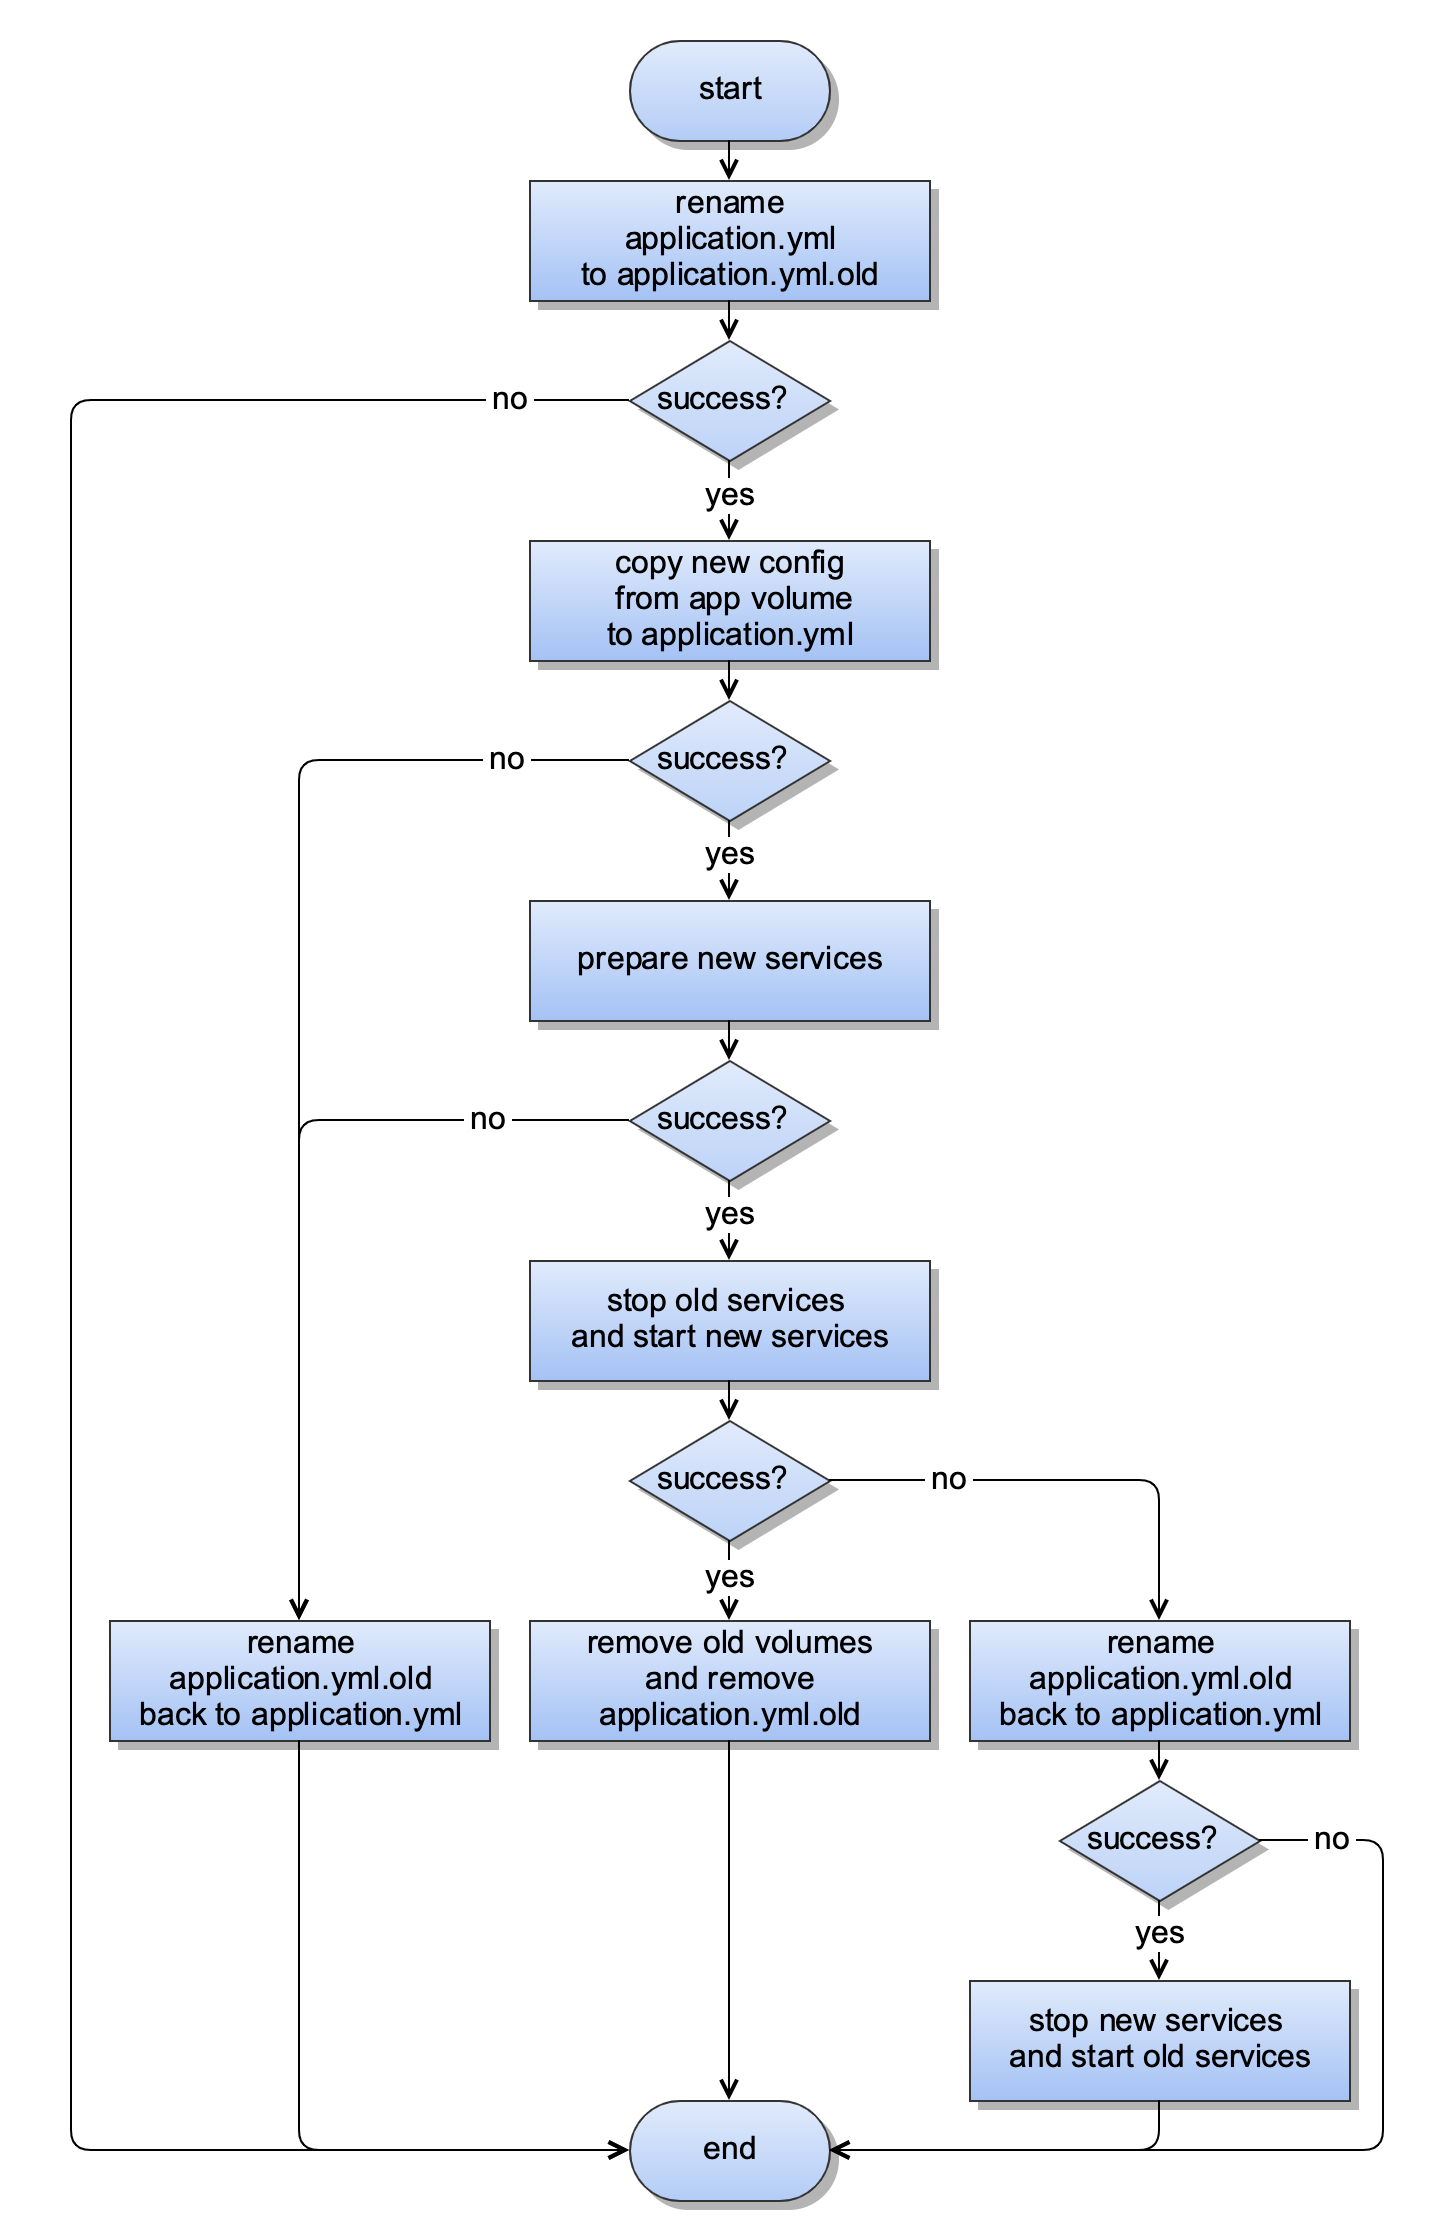
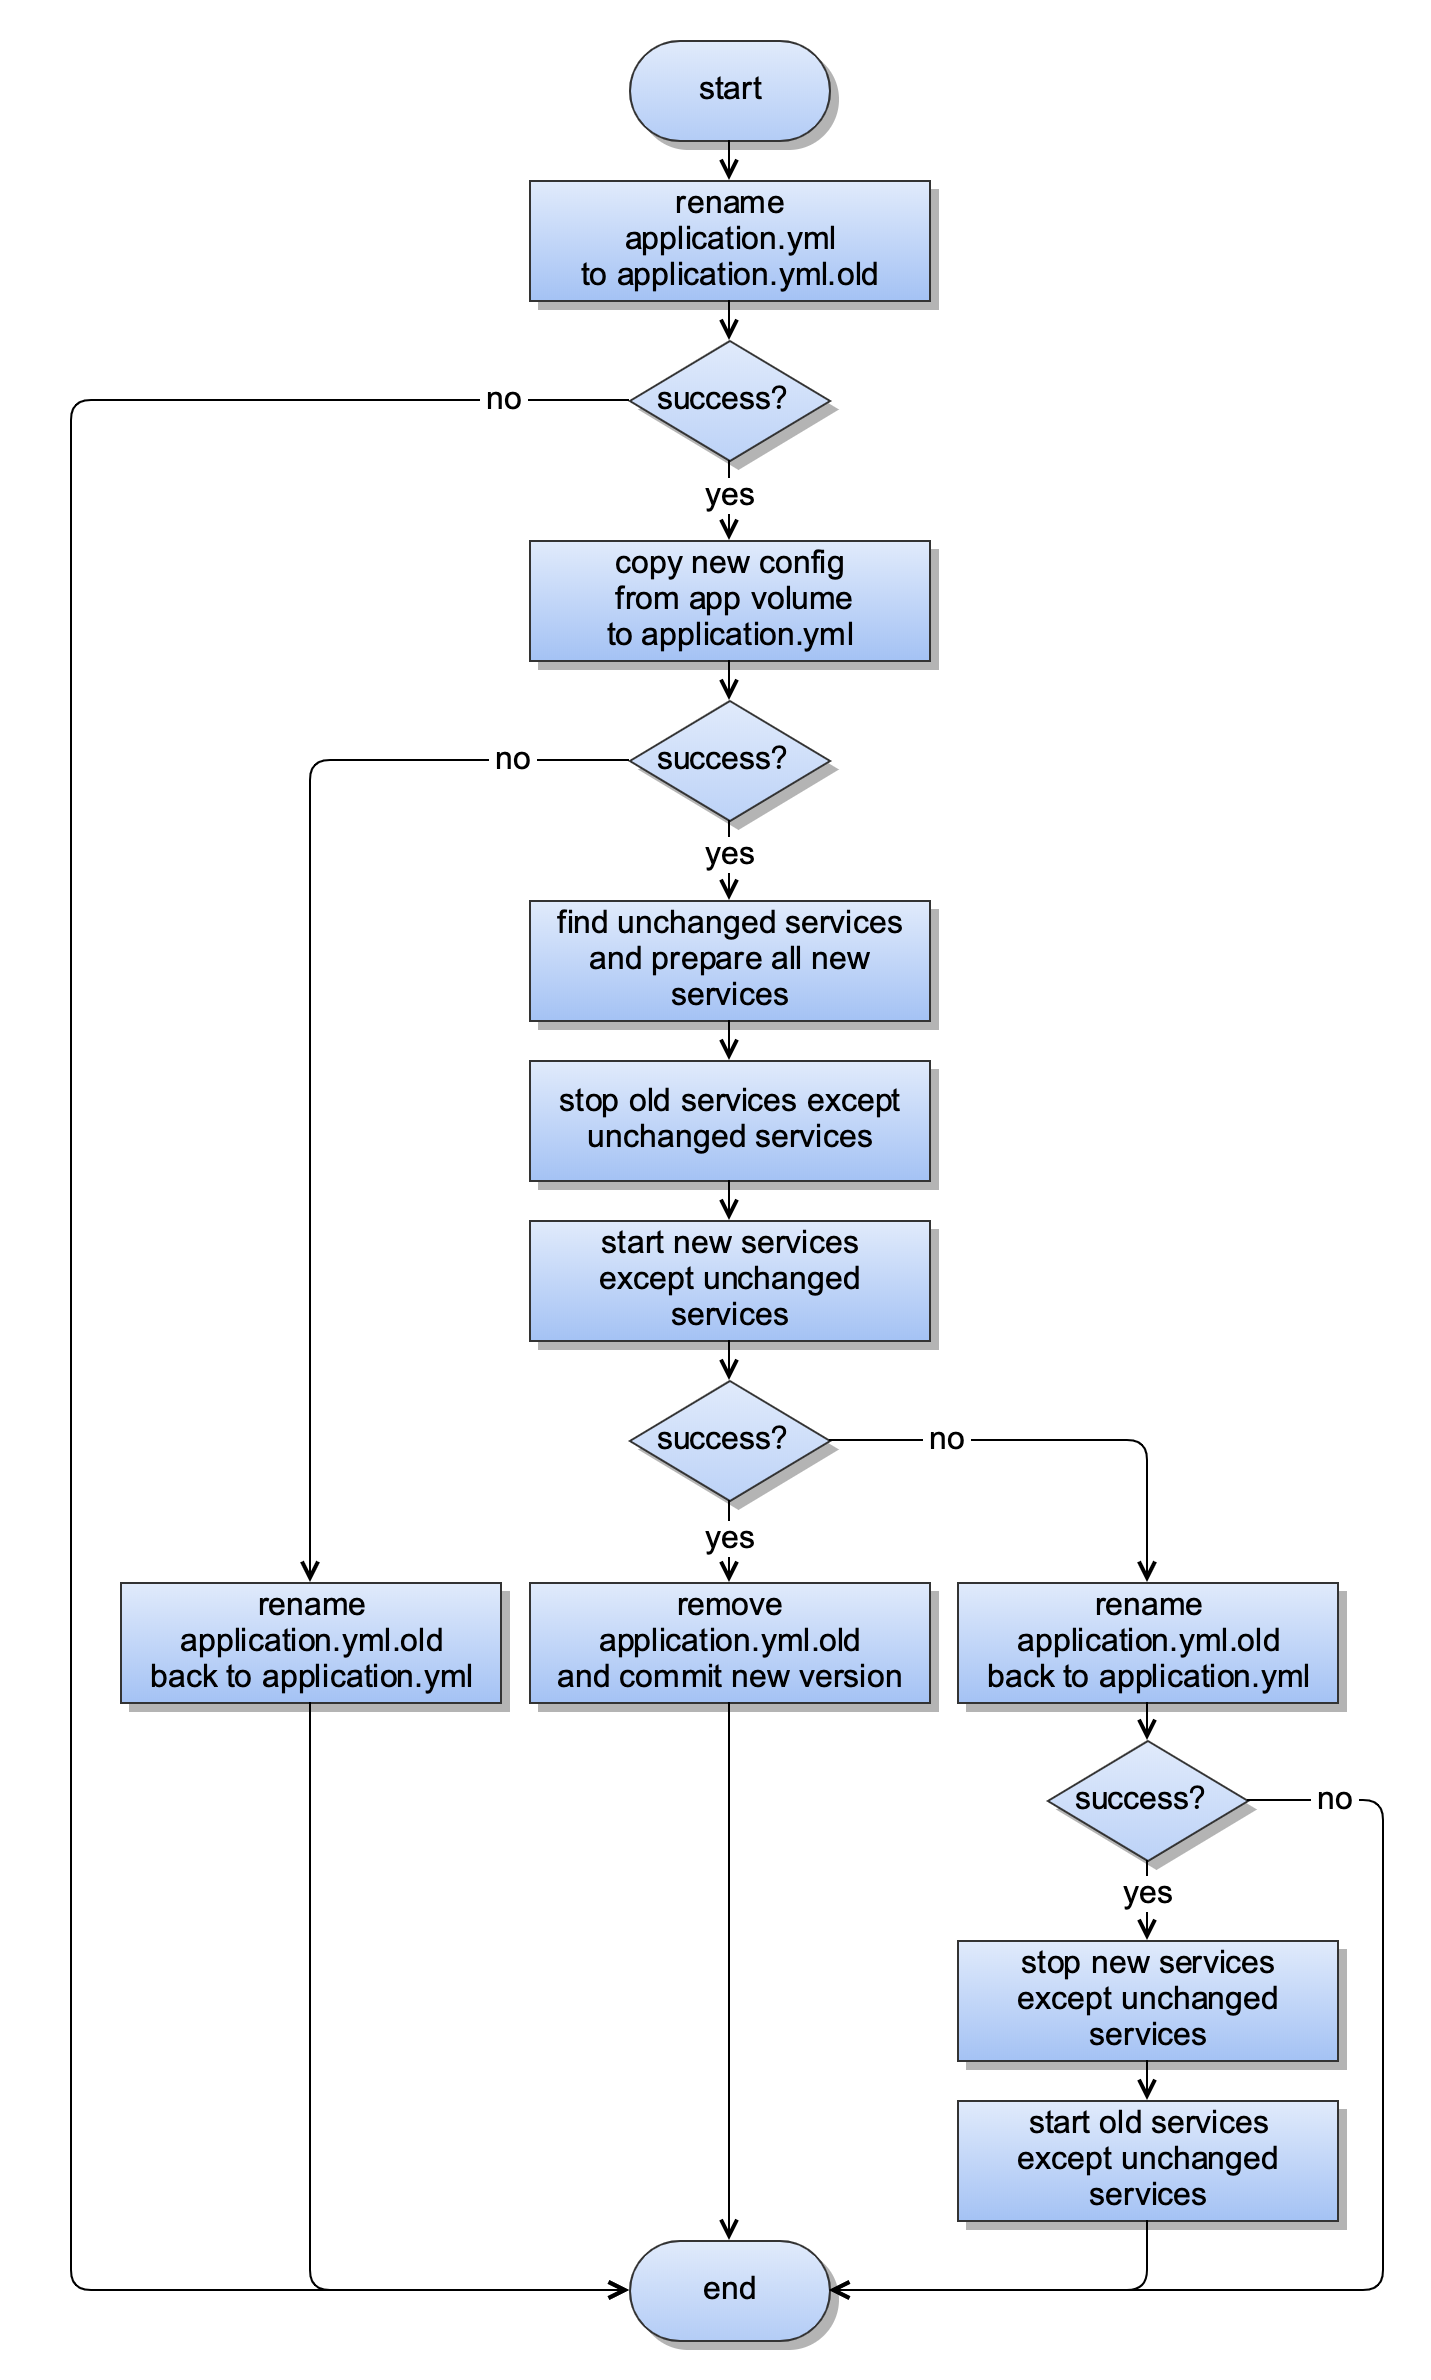
update doc

diff --git a/README.md b/README.md
@@ -27,6 +27,7 @@ As an edge computing platform, **OpenEdge** not only provides features such as u
 - The official module [openedge-function-manager](./doc/us-en/overview/OpenEdge-design.md#openedge-function-manager) provides computing power based on MQTT message mechanism, flexible, high availability, good scalability, and fast response;
 - The official module [openedge-function-python27](./doc/us-en/overview/OpenEdge-design.md#openedge-function-python27) provides the Python2.7 function runtime, which can be dynamically started by `openedge-function-manager`;
 - The official module [openedge-function-python36](./doc/us-en/overview/OpenEdge-design.md#openedge-function-python36) provides the Python3.6 function runtime, which can be dynamically started by `openedge-function-manager`;
+- The official module [openedge-function-node85](./doc/us-en/overview/OpenEdge-design.md#openedge-function-node85) provides the Node 8.5 function runtime, which can be dynamically started by `openedge-function-manager`;
 - SDK (Golang) can be used to develop custom modules.
 
 ### Architecture
@@ -48,6 +49,7 @@ As an edge computing platform, **OpenEdge** not only provides features such as u
 - [OpenEdge config interpretation](./doc/us-en/tutorials/Config-interpretation.md)
 - [How to write a python script for python runtime](./doc/us-en/customize/How-to-write-a-python-script-for-python-runtime.md)
 - [How to import third-party libraries for Python runtime](./doc/us-en/customize/How-to-import-third-party-libraries-for-python-runtime.md)
+- [How to import third-party libraries for Node runtime](./doc/us-en/customize/How-to-import-third-party-libraries-for-node-runtime.md)
 - [How to develop a customize runtime for function](./doc/us-en/customize/How-to-develop-a-customize-runtime-for-function.md)
 - [How to develop a customize module for OpenEdge](./doc/us-en/customize/How-to-develop-a-customize-module-for-OpenEdge.md)
 

diff --git a/CHANGELOG.md b/CHANGELOG.md
@@ -1,3 +1,21 @@
+# Pre-release 0.1.4(2019-07-05)
+
+## New features
+
+- [#251](https://github.com/baidu/openedge/issues/251) add node85 function runtime
+- [#260](https://github.com/baidu/openedge/issues/260) collect network ip address and MAC information
+- [#263](https://github.com/baidu/openedge/issues/263) optimize app reload logic in master, keep service running of its config not changed
+- [#264](https://github.com/baidu/openedge/issues/264) optimize volume clean logic and move it from master to agent module, will remove all volumes not in app's volumes list
+- [#266](https://github.com/baidu/openedge/issues/266) stats the cpu and memory of the service instances
+
+## Bugfixes
+
+- [#246](https://github.com/baidu/openedge/issues/246) change the interval of stats report of agent module from 1m to 20s
+
+## Others
+
+- [#269](https://github.com/baidu/openedge/issues/269) [#273](https://github.com/baidu/openedge/issues/273) [#280](https://github.com/baidu/openedge/issues/280) update makefile, support selected deploy
+
 # Pre-release 0.1.3(2019-05-10)
 
 ## New features

diff --git a/CHANGELOG-CN.md b/CHANGELOG-CN.md
@@ -1,3 +1,21 @@
+# Pre-release 0.1.4(2019-07-05)
+
+## 功能
+
+- [#251](https://github.com/baidu/openedge/issues/251) 增加 Nodejs85 函数计算运行时
+- [#260](https://github.com/baidu/openedge/issues/260) 主程序收集 IP 和 MAC 信息
+- [#263](https://github.com/baidu/openedge/issues/263) 优化应用 OTA，不再重启配置未变化的服务
+- [#264](https://github.com/baidu/openedge/issues/264) 优化存储卷清理逻辑，将其从 主程序迁移至 Agent 模块，会清除所有不在应用的存储卷列表中的目录
+- [#266](https://github.com/baidu/openedge/issues/266) 采集服务实例的 CPU 与内存资源使用信息
+
+## Bug 修复
+
+- [#246](https://github.com/baidu/openedge/issues/246) Agent 模块状态上报周期从 1 分钟变更为 20 秒
+
+## 其他
+
+- [#269](https://github.com/baidu/openedge/issues/269) [#273](https://github.com/baidu/openedge/issues/273) [#280](https://github.com/baidu/openedge/issues/280) 更新 Makefile 文件，支持选择性部署
+
 # Pre-release 0.1.3(2019-05-10)
 
 ## 功能
